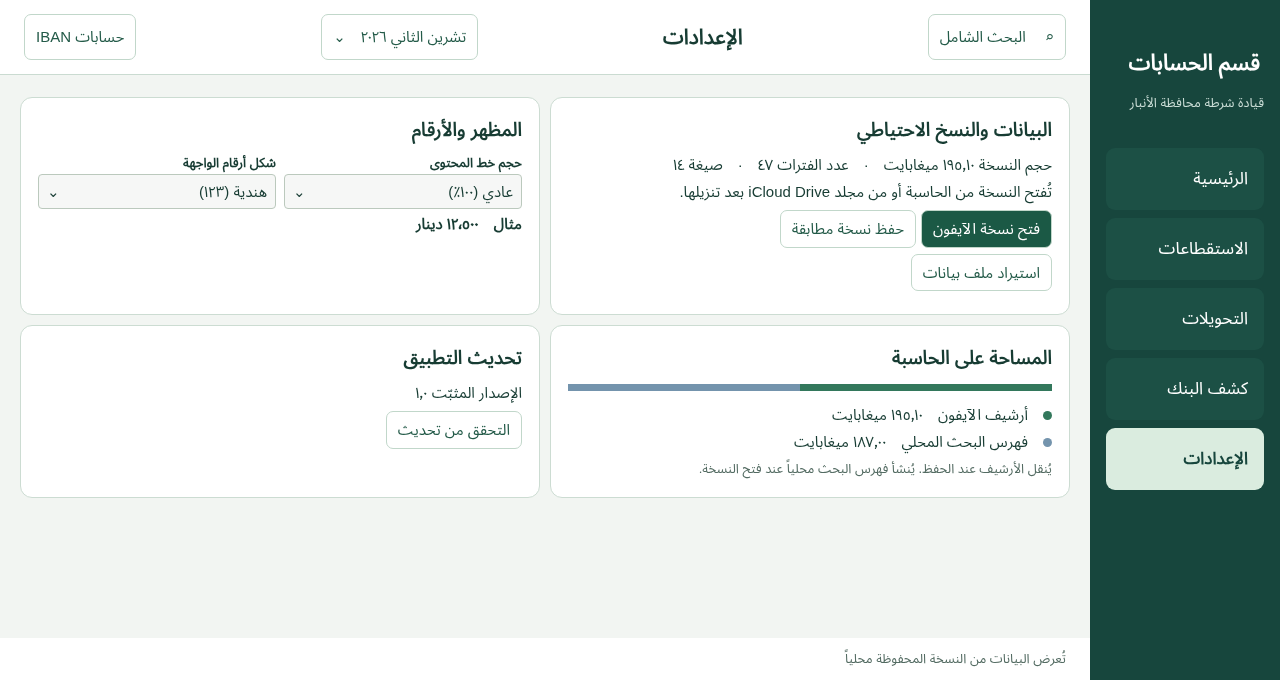
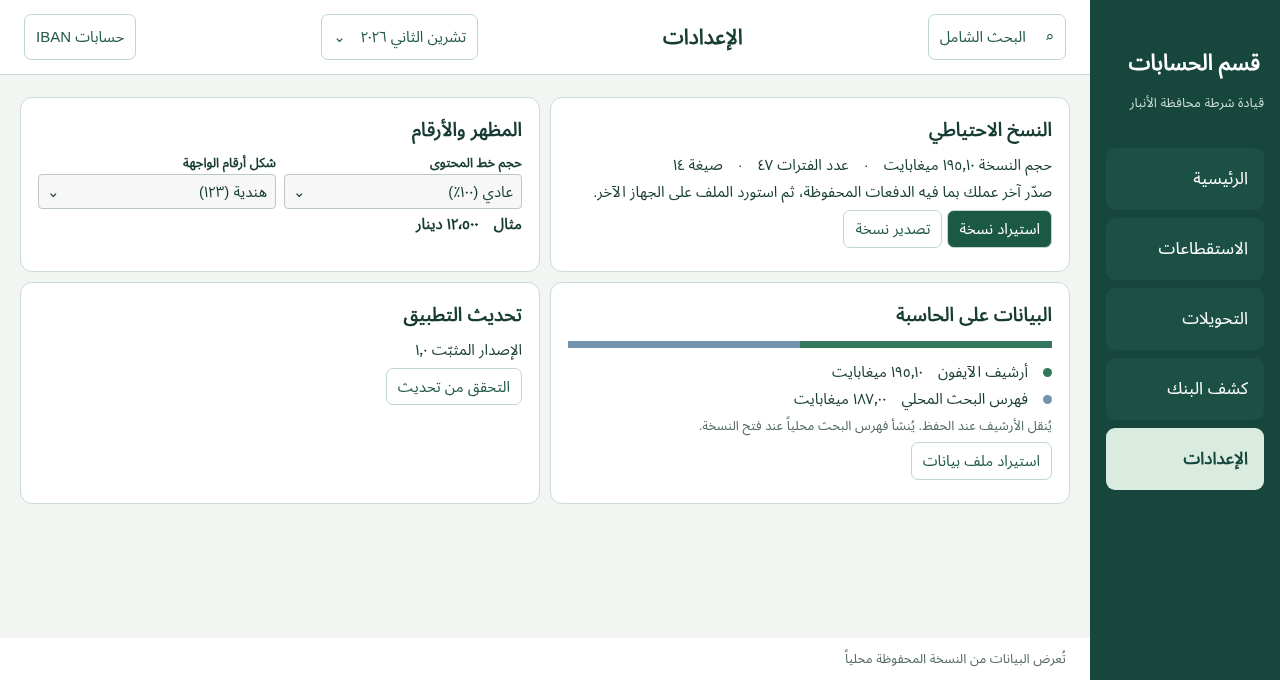
Expose two-way backup import and export on Windows
Keep payroll file import separate and verify a dated refund batch travels to Apple and back alongside a second batch.

Changed region(s): [[0.4375, 0.2779, 0.8438, 0.7103], [0.3125, 0.4324, 0.4062, 0.6485], [0.6562, 0.1853, 0.8125, 0.2162]]

diff --git a/ci/compact_backup_test/Test.swift b/ci/compact_backup_test/Test.swift
@@ -57,6 +57,17 @@ import CoreGraphics
             let level = try value("windowsContentTextLevel") as? Int
             let size = try value("appTextSize") as? Int
             precondition(pins == "salaryTrust|bankStatement" && digits == "arabicIndic" && level == 2 && size == 4)
+            // افتح دفعة الحاسبة من سجل الإعادات المستعاد، وأضف دفعة ثانية قبل إعادة التصدير.
+            let history = RefundStorage.local.root.appendingPathComponent("history")
+            let first = history.appendingPathComponent("ABC00000-0000-4000-8000-000000000001.json")
+            var batch = try JSONSerialization.jsonObject(with: Data(contentsOf: first)) as! [String: Any]
+            var rows = batch["rows"] as! [[String: Any]]
+            precondition(rows.count == 1 && rows[0]["amount"] as? String == "1500")
+            let secondID = "ABC00000-0000-4000-8000-000000000002"
+            rows[0]["amount"] = "2450"
+            batch["rows"] = rows
+            batch["batchID"] = secondID
+            try JSONSerialization.data(withJSONObject: batch).write(to: history.appendingPathComponent(secondID + ".json"), options: .atomic)
             let newPins = WorkReport.saving([.health], previous: pins)
             settings["homePinnedWorkItems"] = try PropertyListSerialization.data(fromPropertyList: newPins, format: .binary, options: 0)
             settings["appNumerals"] = try PropertyListSerialization.data(fromPropertyList: "latin", format: .binary, options: 0)

diff --git a/windows/Desktop/MainWindow.xaml.cs b/windows/Desktop/MainWindow.xaml.cs
@@ -124,7 +124,7 @@ public partial class MainWindow : Window
         foreach(var n in Sections){var btn=ButtonFor(n.Name,()=>{backPage=null;ShowPage(n.Name);},n.Icon);btn.Background=BrushOf(active==n.Name?"#D8EEE0":"#19483D");btn.Foreground=active==n.Name?BrushOf("#163E31"):Brushes.White;
             ((TextBlock)((StackPanel)btn.Content).Children[0]).Foreground=active==n.Name?BrushOf("#215740"):BrushOf("#CADFD2");btn.BorderThickness=new Thickness(0);btn.HorizontalContentAlignment=HorizontalAlignment.Right;btn.Margin=new Thickness(0,4,0,2);btn.Padding=new Thickness(12,11,12,11);Nav.Children.Add(btn);}
         AdaptNavigation();
-        Status.Text=store.Active==null?"اختر نسخة الآيفون من الإعدادات لبدء العمل.":"تُعرض البيانات من النسخة المحفوظة محلياً";
+        Status.Text=store.Active==null?"استورد نسخة احتياطية أو ملف بيانات من الإعدادات لبدء العمل.":"تُعرض البيانات من النسخة المحفوظة محلياً";
         if(name=="الرئيسية")homeLoad=Home();else if(name=="الإعدادات")Settings();else if(name==DirectoryName)workPageLoad=ShowAccountDirectory();else if(name=="كشف البنك")Bank();else if(WorkPages.Contains(name)||name is CurrentTransfers or DeferredTransfers or RefundTransfers)workPageLoad=WorkPage(name);else if(name=="الكتب المحفوظة")Books();else if(name is AgencyPage or EmployeePage or HistoryPage)DeductionGrid(review);
         if(SystemParameters.ClientAreaAnimation&&!SystemParameters.HighContrast){CanvasArea.BeginAnimation(OpacityProperty,new DoubleAnimation(.84,1,TimeSpan.FromMilliseconds(140)){FillBehavior=FillBehavior.Stop,EasingFunction=new QuadraticEase{EasingMode=EasingMode.EaseOut}});}
     }
@@ -160,7 +160,7 @@ public partial class MainWindow : Window
         var value=Column(balance,totalCaption);value.HorizontalAlignment=HorizontalAlignment.Left;Grid.SetColumn(value,1);
         foreach(var t in intro.Children.OfType<TextBlock>().Concat(value.Children.OfType<TextBlock>()))t.Foreground=Brushes.White;
         hero.Children.Add(intro);hero.Children.Add(value);var banner=Box(hero,"#1E5646");banner.Padding=new Thickness(25,24,25,24);panel.Children.Add(banner);
-        if(store.Active==null)panel.Children.Add(ButtonFor("اختيار نسخة الرواتب.zip",()=>_=Import(),"\uE8E5",true));
+        if(store.Active==null)panel.Children.Add(ButtonFor("استيراد نسخة",()=>_=ImportBackup(),"\uE8E5",true));
         var reviewHost=new StackPanel();
         var revision=store.Active;
         reviewHost.Children.Add(Text(selectedPeriod is {Key:>0}?"جارٍ تحميل حالات الشهر…":"تظهر حالات المراجعة بعد استيراد البيانات.",15));
@@ -232,14 +232,13 @@ public partial class MainWindow : Window
         }
         var active=store.Active;
         long archive=active==null?0:new FileInfo(store.Archive).Length;
-        var save=ButtonFor("حفظ نسخة مطابقة",CopyArchive,"\uE74E");
+        var save=ButtonFor("تصدير نسخة",ExportBackup,"\uE74E");
         save.IsEnabled=active!=null;
-        var backup=Box(Column(Text("البيانات والنسخ الاحتياطي",18,true),
+        var backup=Box(Column(Text("النسخ الاحتياطي",18,true),
             Text(active==null?"لم تُفتح نسخة بعد.":"حجم النسخة "+Size(archive)+"　·　عدد الفترات "+months.Count+"　·　صيغة "+store.Metadata("format"),14),
-            Text("تُفتح النسخة من الحاسبة أو من مجلد iCloud Drive بعد تنزيلها.",14),
-            Bar(ButtonFor("فتح نسخة الآيفون",()=>_=Import(),"\uE8E5",true),save),
-            Bar(ButtonFor("استيراد ملف بيانات",()=>_=ImportDataFile(),"\uE8B5"))));
-        var storage=Column(Text("المساحة على الحاسبة",18,true));
+            Text("صدّر آخر عملك بما فيه الدفعات المحفوظة، ثم استورد الملف على الجهاز الآخر.",14),
+            Bar(ButtonFor("استيراد نسخة",()=>_=ImportBackup(),"\uE8E5",true),save)));
+        var storage=Column(Text("البيانات على الحاسبة",18,true));
         if(active!=null){
             long lookup=new FileInfo(Path.Combine(active,"lookup.db")).Length;
             var sizes=new Grid();
@@ -253,6 +252,7 @@ public partial class MainWindow : Window
         }else{
             storage.Children.Add(Text("تظهر مساحة الأرشيف وفهرس البحث بعد فتح نسخة.",14));
         }
+        storage.Children.Add(Bar(ButtonFor("استيراد ملف بيانات",()=>_=ImportDataFile(),"\uE8B5")));
         var updates=Box(Column(Text("تحديث التطبيق",18,true),
             Text("الإصدار المثبّت "+WindowsRelease.DisplayVersion(InstalledVersion),14),
             Bar(ButtonFor("التحقق من تحديث",()=>_=CheckForUpdate(true),"\uE895"))));
@@ -277,13 +277,23 @@ public partial class MainWindow : Window
         CanvasArea.Children.Add(new ScrollViewer{Content=layout,HorizontalScrollBarVisibility=ScrollBarVisibility.Disabled,
             VerticalScrollBarVisibility=ScrollBarVisibility.Auto,HorizontalContentAlignment=HorizontalAlignment.Stretch});
     }
-    void CopyArchive()=>Guard(()=>{if(store.Active==null)return;var d=new SaveFileDialog{FileName=Store.BackupName,Filter="نسخة الآيفون|*.zip"};if(d.ShowDialog(this)!=true)return;_=Working(()=>store.ExportBackup(d.FileName),"حُفظت النسخة المشتركة كاملة.");});
-    async Task Import()
+    void ExportBackup()
+    {
+        if(busy || store.Active==null)return;
+        var dialog=new SaveFileDialog{Title="تصدير نسخة",FileName=Store.BackupName,
+            Filter="نسخة احتياطية مشتركة (*.zip)|*.zip",DefaultExt=".zip"};
+        if(dialog.ShowDialog(this)!=true)return;
+        _=Working(()=>store.ExportBackup(dialog.FileName),"صُدّرت النسخة. يمكنك استرجاع هذا الملف على الآيفون أو استيراده على حاسبة أخرى.",()=>ShowPage("الإعدادات"));
+    }
+    async Task ImportBackup()
     {
         if(busy)return;
-        var d=new OpenFileDialog{Filter="نسخة الآيفون (*.zip)|*.zip",Title="فتح نسخة الرواتب"};if(d.ShowDialog(this)!=true)return;
-        if(store.Active!=null&&MessageBox.Show(this,"عرض بيانات النسخة المختارة مكان النسخة المحلية الحالية؟","فتح نسخة الآيفون",MessageBoxButton.YesNo)!=MessageBoxResult.Yes)return;
-        busy=true;IsEnabled=false;try{var progress=new Progress<string>(s=>Status.Text=s);await Task.Run(()=>store.Import(d.FileName,progress));Reload();busy=false;ShowPage("الرئيسية");Status.Text="اكتمل التحقق وفتح النسخة.";}catch(Exception e){Error(e);}finally{busy=false;IsEnabled=true;}
+        var d=new OpenFileDialog{Filter="نسخة احتياطية مشتركة (*.zip)|*.zip",Title="استيراد نسخة"};
+        if(d.ShowDialog(this)!=true)return;
+        if(store.Active!=null && MessageBox.Show(this,
+            "سيستبدل استيراد «"+Path.GetFileName(d.FileName)+"» بيانات هذه الحاسبة، بما فيها الدفعات المحفوظة. هل تريد المتابعة؟",
+            "استيراد نسخة",MessageBoxButton.YesNo,MessageBoxImage.Question,MessageBoxResult.No)!=MessageBoxResult.Yes)return;
+        busy=true;IsEnabled=false;try{var progress=new Progress<string>(s=>Status.Text=s);await Task.Run(()=>store.Import(d.FileName,progress));Reload();busy=false;ShowPage("الرئيسية");Status.Text="تم التحقق من النسخة واستيراد بياناتها.";}catch(Exception e){Error(e);}finally{busy=false;IsEnabled=true;}
     }
     CancellationTokenSource? query;
     Button? export,employee;
@@ -544,7 +554,7 @@ public partial class MainWindow : Window
                 if(cards.Children.Count!=4 || (CanvasArea.ActualWidth>=820 && CanvasArea.ActualHeight>=500 &&
                     (cards.ColumnDefinitions.Count!=2 || settingsView.ScrollableHeight>1 || settingsView.ScrollableWidth>1)))
                     throw new InvalidDataException("لم تظهر أقسام الإعدادات معاً ضمن مساحة الشاشة الكبيرة.");
-                foreach(var action in new[]{"فتح نسخة الآيفون","حفظ نسخة مطابقة","استيراد ملف بيانات","التحقق من تحديث"})
+                foreach(var action in new[]{"استيراد نسخة","تصدير نسخة","استيراد ملف بيانات","التحقق من تحديث"})
                     FindAction(cards,action);
             }
             if(name=="الرئيسية"){

diff --git a/windows/Checks/PreferenceExchange.cs b/windows/Checks/PreferenceExchange.cs
@@ -9,14 +9,23 @@ internal static class PreferenceExchange
         try {
             var store=new Store(root);
             const string month="تشرين الثاني 2026";
+            const string refundId="ABC00000-0000-4000-8000-000000000001";
+            const string appleId="ABC00000-0000-4000-8000-000000000002";
+            var payee=new RefundPayee("اسم تجريبي","موظف","قسم تجريبي",month,AccountingTests.Iban("RSHD",1),"مصرف الرشيد","RSHDIQBA123",1500);
             if(mode=="--write-preference-archive"){
                 A.Employee row=new(month,"اسم تجريبي","موظف","قسم تجريبي",15000,null,null,null);
                 A.Deduction deduction=new(month,row.Name,"جهة تجريبية",250,"١ / ٢٠٢٦",row.Rank);
                 store.ApplyExcel(new(month,[row],[deduction],[]),null);
+                store.SaveRefund(new RefundBatch(refundId,"جهة تجريبية",new(2026,11,1),"قسم الحسابات",AccountingTests.Iban("RAFB",9),[payee]),store.Active);
                 store.SaveWorkPreferences(store.Active!,new(){["homePinnedWorkItems"]="salaryTrust|bankStatement",["appNumerals"]="arabicIndic",["appTextSize"]="4",["windowsContentTextLevel"]="2"});
                 store.ExportBackup(file);
             }else{
                 store.Import(file);
+                var batches=store.Refunds().ToDictionary(b=>b.Id);
+                if(batches.Count!=2 || batches[refundId].People.Single().Amount!=1500 ||
+                    batches[appleId].People.Single().Amount!=2450 || batches.Values.Any(b=>
+                        b.People.Single().Iban!=payee.Iban || b.Groups().Single().Code!="RSHD" || b.People.Single().Bic!=payee.Bic))
+                    throw new InvalidDataException("لم تنتقل الدفعتان بمبالغهما وحساباتهما.");
                 var prefs=store.ReadWorkPreferences();
                 if(prefs["homePinnedWorkItems"]!="health|bankStatement" || prefs["appNumerals"]!="latin"
                     || prefs["windowsContentTextLevel"]!="2" || prefs["appTextSize"]!="4"

diff --git a/windows/Desktop/Workspace.cs b/windows/Desktop/Workspace.cs
@@ -67,7 +67,7 @@ public partial class MainWindow
     {
         if(key==TransfersName){TransferHome();return;}
         if(key==SearchName){SearchAll();return;}
-        if(store.Active==null){CanvasArea.Children.Add(Text("افتح نسخة الآيفون أو استورد ملف Excel من الإعدادات."));return;}
+        if(store.Active==null){CanvasArea.Children.Add(Text("استورد نسخة احتياطية أو ملف Excel من الإعدادات."));return;}
         var month=SelectedMonth?.Name??"";var revision=store.Active;var loading=Text("جارٍ إعداد البيانات…",16);CanvasArea.Children.Add(loading);
         try{
             if(key==AuditName){

diff --git a/windows/Desktop/BankDesk.cs b/windows/Desktop/BankDesk.cs
@@ -35,7 +35,7 @@ public partial class MainWindow
             var revision = store.Active;
             var month = SelectedMonth?.Name ?? "";
             bool Current() => CanvasArea.Children.Contains(dock) && content.Children.Contains(host) && store.Active == revision;
-            if (revision == null) { host.Children.Add(Text("افتح نسخة الآيفون أو استورد البيانات أولاً.")); return; }
+            if (revision == null) { host.Children.Add(Text("استورد نسخة احتياطية أو البيانات أولاً.")); return; }
             bankLoad = Load();
             async Task Load()
             {
